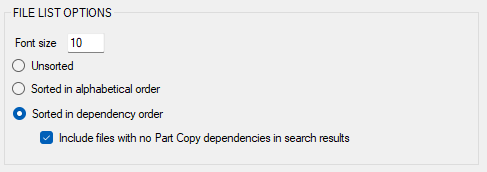
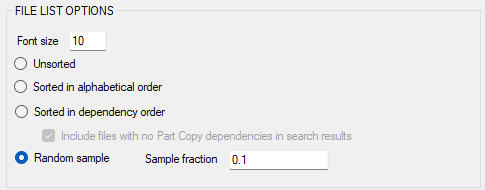
See release_notes.md for V2023.6

Changed region(s): [[0.0, 0.1744, 0.7423, 0.9012], [0.0, 0.0291, 0.2474, 0.1163]]

diff --git a/README.md b/README.md
@@ -16,6 +16,7 @@
 @JayJay101, @nate.arinta5649, @DaveG, @tempod, @64Pacific, @ben.steele6044,
 @KennyG, @Alex_H, @Nosybottle, @Seva, @HIL
 
+**Notice:**
 *Portions adapted from code by Jason Newell, Tushar Suradkar, Greg Chasteen,*
 *and others.  Most of the rest copied verbatim from Jason's repo or Tushar's blog.*
 
@@ -142,7 +143,9 @@ The first time you use the program, some site-specific information is needed.
 This includes the location of your templates, material table, etc. 
 These are populated on the **Configuration Tab**.
 
-To start execution, click the Process button.  The status
+![Status Bar](My%20Project/media/status_bar_ready.png)
+
+To start execution, click the `Process` button.  The status
 bar provides feedback to help you monitor progress. 
 You can also stop execution if desired.
 See **STARTING, STOPPING, AND MONITORING EXECUTION** for details.
@@ -313,24 +316,27 @@ To do so, check/uncheck the appropriate File Type
 
 ![File list sorting options](My%20Project/media/file_sort_options.png)
 
-You can choose sorting options of `None`, `Alphabetic`, or 
-`Dependency`.  These options are set on the 
+You can choose sorting options of `Unsorted`, `Alphabetic`, 
+`Dependency`, or `Random sample`.  These options are set on the 
 **Configuration** Tab.
 
-The `None` option is primarily 
-intended to preserve the order on imported lists.
+The `Unsorted` option is primarily 
+intended to preserve the order of imported lists.
 
 The `Dependency` option is useful in conjunction with
 the `Update part copy` commands.  It is intended to help eliminate
 the tedious `model out-of-date` (dark gray corners) on drawings. 
 
-In practice, along with `Update part copies` command,
-you would probably also want to run the `Activate and update all` 
-Assembly command, and the `Update drawing views` Draft command.
-
 The dependency ordering is not fool proof.  It has trouble with
 mutual dependencies, such as Interpart copies.  I've had some luck
 simply running the process two times in a row.
+
+The `Random sample` option randomly selects and shuffles
+ a fraction of the total files found.  The `Sample fraction`
+is a decimal number between `0.0` and `1.0`.
+
+This option is primarily intended for software testing, 
+but can be used for any purpose.
 
 ### Filtering
 

diff --git a/release_notes.md b/release_notes.md
@@ -11,6 +11,45 @@ of yours.  Do not run it on production work without testing on backups first.
 Feel free to report bugs and/or ideas for improvement on the 
 [**Solid Edge Forum**](https://community.sw.siemens.com/s/topic/0TO4O000000MihiWAC/solid-edge)
 
+## V2023.6 Enhancements/Fixes
+
+### Process Tasks in Background -- Increased speed
+
+Contributed by **@Fiorini** 
+(GitHub: [**@farfilli**](https://github.com/farfilli)).  Thank you!
+
+Uses the SolidEdgeCommunity OpenInBackground function 
+(Thank you **@JNewell**!).  Speedup varies -- from 3X to 10X 
+depending on the task.  The option is set on the
+**Configuration Tab**.
+
+Some tasks (`Fit view`, `Interactive edit`, and `Save As`) are 
+incompatible with background processing.  The program checks
+ and notifies the user of a conflict.  
+
+At this time, assemblies still run in the old mode -- 
+graphics hidden, not disabled.  
+
+### Sort Order -- Random sampling
+
+Added an option to randomly select a fraction of the total files 
+found.  The fraction, a decimal number between 0.0 and 1.0, 
+is set on the Configuration Tab.
+
+This option is primarily intended for software testing, 
+but can be used for any purpose.
+
+### Dependency-order Sort
+
+Fixed an issue, in top-level search mode, where the top level 
+assembly itself was not sorted correctly.
+
+### Bottom Up Search 
+
+Fixed an issue where bottom up search was not returning 
+Family of Assemblies links.  
+
+
 ## V2023.5 Enhancements/Fixes
 
 ### Update Draft Styles from Template
